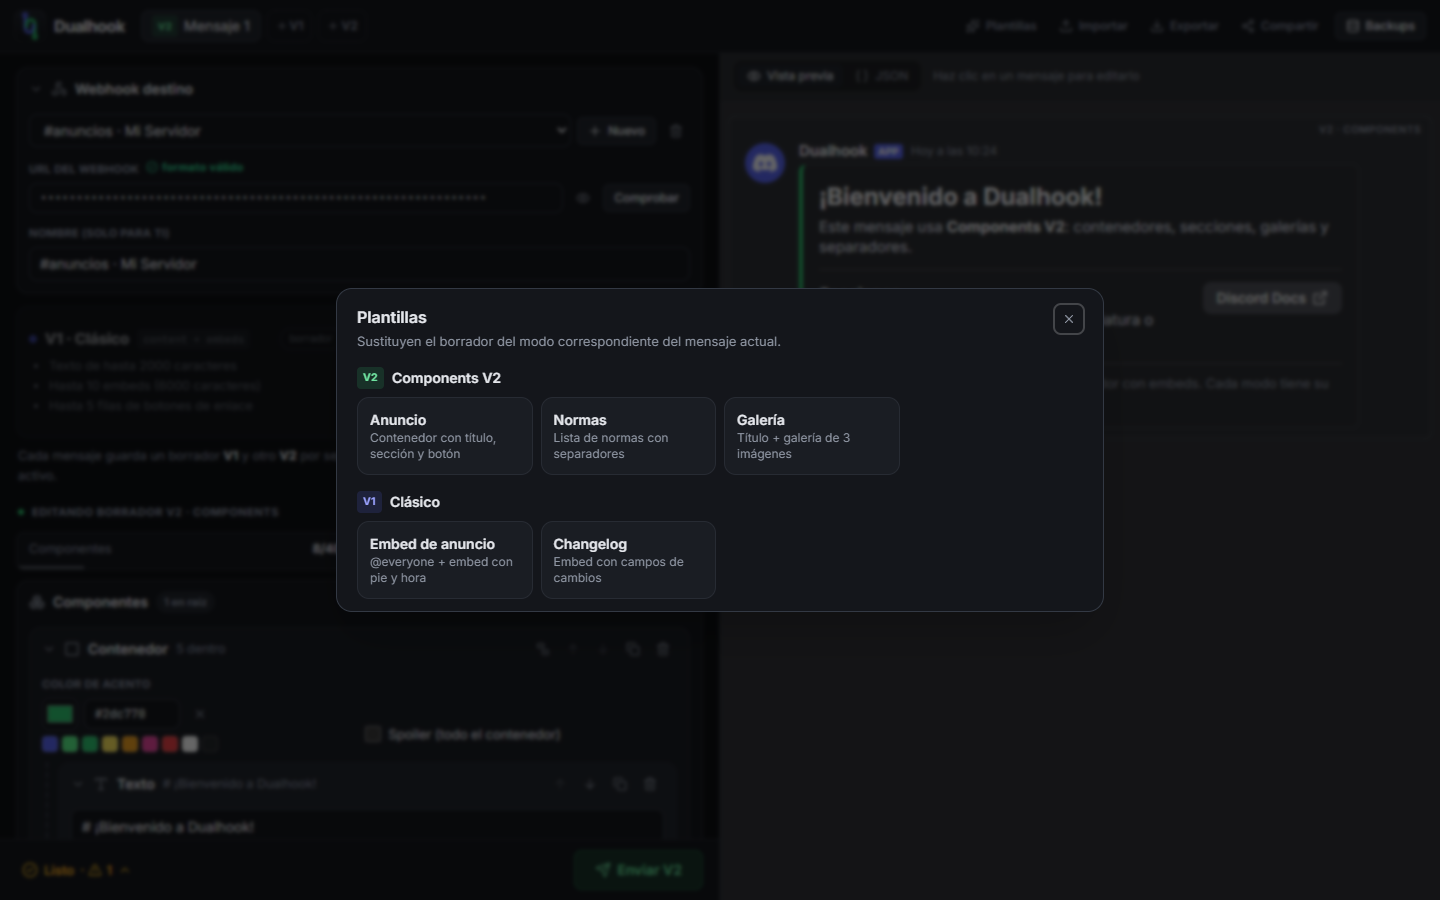
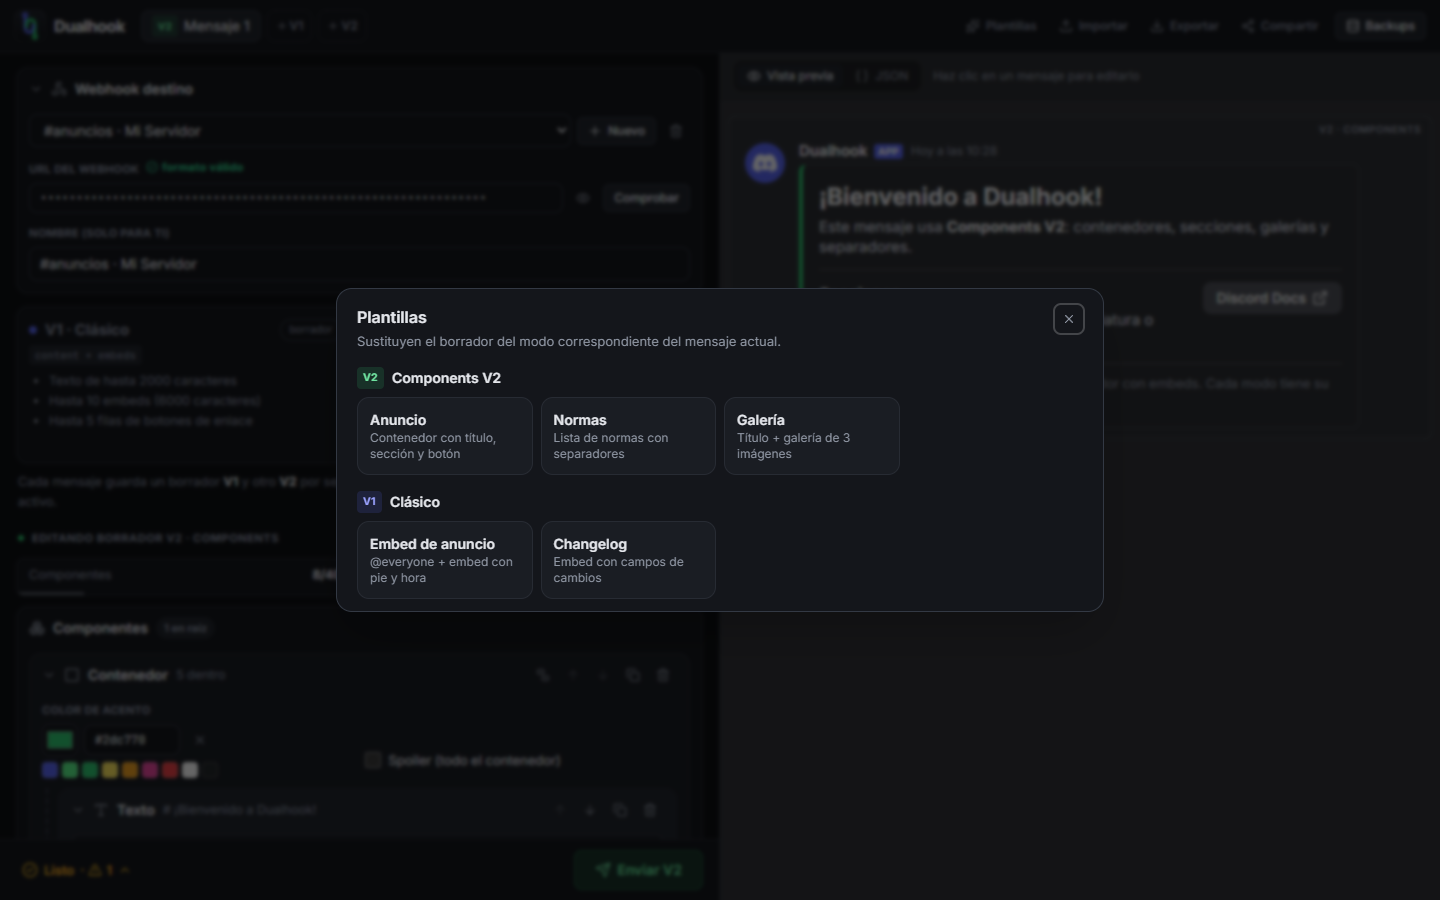
Cambiar de V1 a V2 ya no mueve la página (1.0.2)
Las tarjetas de modo usan la misma estructura activas e inactivas: la
etiqueta «borrador» reserva su espacio, el flag va en su propia línea y se
quita la transición, así que el editor no salta al cambiar de modo.

diff --git a/src/components/editor/ModeSwitch.tsx b/src/components/editor/ModeSwitch.tsx
@@ -28,18 +28,22 @@ function ModeCard({ m, mode }: { m: Message; mode: Mode }) {
   const on = m.mode === mode;
   const info = INFO[mode];
   const tone = TONE[mode];
+  const draft = !on && hasContent(m, mode);
+  // Estructura idéntica en ambos estados (activo/inactivo) para que al cambiar de modo no se mueva nada:
+  // sin transiciones, sin elementos que aparezcan o desaparezcan y sin líneas que puedan saltar.
   return (
     <button
       type="button"
+      aria-pressed={on}
       onClick={() => !on && update((d) => void (d.mode = mode))}
-      className={cn('rounded-xl border bg-panel p-3 text-left transition', on ? tone.on : 'border-line opacity-60 hover:border-line-2 hover:opacity-100')}
+      className={cn('flex flex-col rounded-xl border bg-panel p-3 text-left', on ? tone.on : 'border-line hover:border-line-2')}
     >
-      <div className="flex flex-wrap items-center gap-2">
-        <span className={cn('size-2 rounded-full', tone.dot)} />
-        <b className={cn('text-[15px]', tone.text)}>{info.title}</b>
-        <code className="rounded bg-panel-3 px-1.5 font-mono text-[10.5px] text-muted">{info.flag}</code>
-        {!on && hasContent(m, mode) && <span className={cn('ml-auto rounded-full border px-2 text-[10.5px]', tone.pill)}>borrador</span>}
+      <div className="flex items-center gap-2">
+        <span className={cn('size-2 shrink-0 rounded-full', tone.dot)} />
+        <b className={cn('whitespace-nowrap text-[15px]', on ? 'text-fg' : 'text-muted')}>{info.title}</b>
+        <span className={cn('ml-auto whitespace-nowrap rounded-full border px-2 text-[10.5px]', tone.pill, !draft && 'invisible')}>borrador</span>
       </div>
+      <code className="mt-1 w-fit rounded bg-panel-3 px-1.5 font-mono text-[10.5px] text-muted">{info.flag}</code>
       <ul className={cn('mt-1.5 list-disc pl-5 text-[12.5px]', on ? 'text-fg' : 'text-muted')}>
         {info.points.map((p) => (
           <li key={p}>{p}</li>

diff --git a/README.md b/README.md
@@ -10,7 +10,7 @@
 
 [![Demo](https://img.shields.io/badge/demo-zer0.is--a.dev%2Fdualhook-2dc770?style=flat-square&logo=githubpages&logoColor=white)](https://zer0.is-a.dev/dualhook/)
 [![Deploy](https://img.shields.io/github/actions/workflow/status/Zer0Dev-exe/dualhook/deploy.yml?branch=main&style=flat-square&label=deploy)](https://github.com/Zer0Dev-exe/dualhook/actions/workflows/deploy.yml)
-[![Versión](https://img.shields.io/badge/versión-1.0.1-5865f2?style=flat-square)](CHANGELOG.md)
+[![Versión](https://img.shields.io/badge/versión-1.0.2-5865f2?style=flat-square)](CHANGELOG.md)
 [![Licencia: MIT](https://img.shields.io/badge/licencia-MIT-yellow?style=flat-square)](LICENSE)
 [![React](https://img.shields.io/badge/React-18.3-61DAFB?style=flat-square&logo=react&logoColor=black)](https://react.dev)
 [![TypeScript](https://img.shields.io/badge/TypeScript-5.9-3178C6?style=flat-square&logo=typescript&logoColor=white)](https://www.typescriptlang.org)

diff --git a/CHANGELOG.md b/CHANGELOG.md
@@ -3,6 +3,13 @@
 Todos los cambios relevantes del proyecto. El formato sigue [Keep a Changelog](https://keepachangelog.com/es-ES/1.1.0/)
 y el versionado [SemVer](https://semver.org/lang/es/).
 
+## [1.0.2] — 2026-10-13
+
+### Corregido
+
+- Cambiar entre V1 y V2 ya no mueve la página: las tarjetas de modo tienen siempre la misma altura
+  (la etiqueta «borrador» reserva su sitio y el flag va en su propia línea) y no hay animaciones.
+
 ## [1.0.1] — 2026-10-13
 
 ### Cambiado
@@ -42,6 +49,7 @@ Primera versión estable, reescrita sobre Vite + React + TypeScript, con el nomb
 
 - Prototipo inicial en HTML/CSS/JS sin framework, con el nombre provisional «Hookforge» (sustituido por la 1.0.0).
 
+[1.0.2]: #102--2026-10-13
 [1.0.1]: #101--2026-10-13
 [1.0.0]: #100--2026-10-13
 [0.1.0]: #010--2026-10-13
